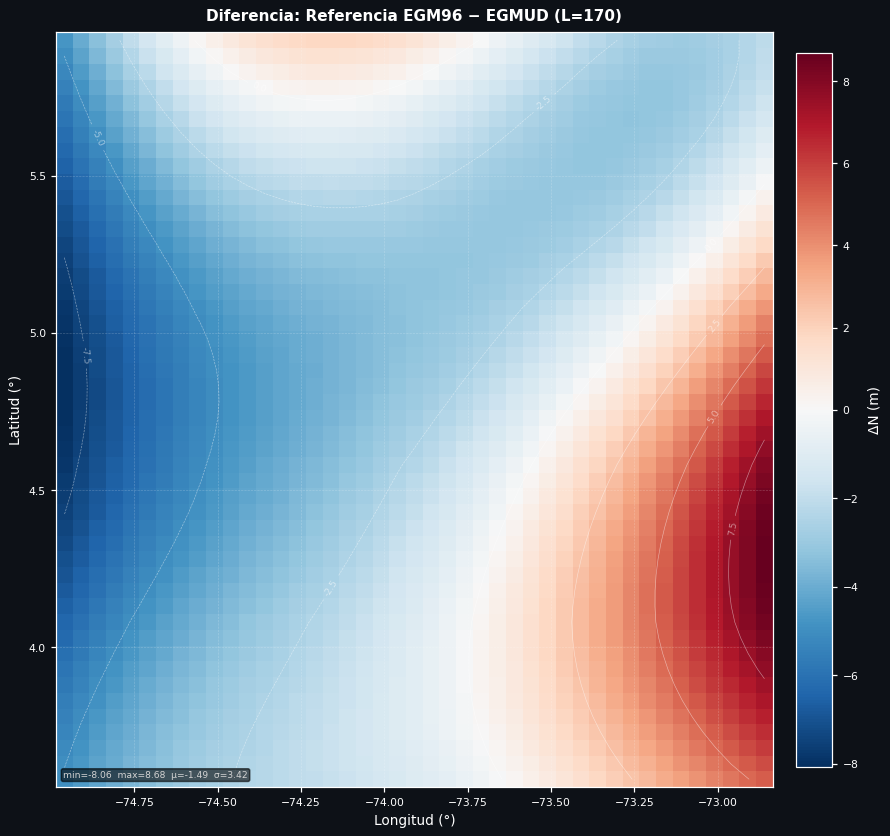
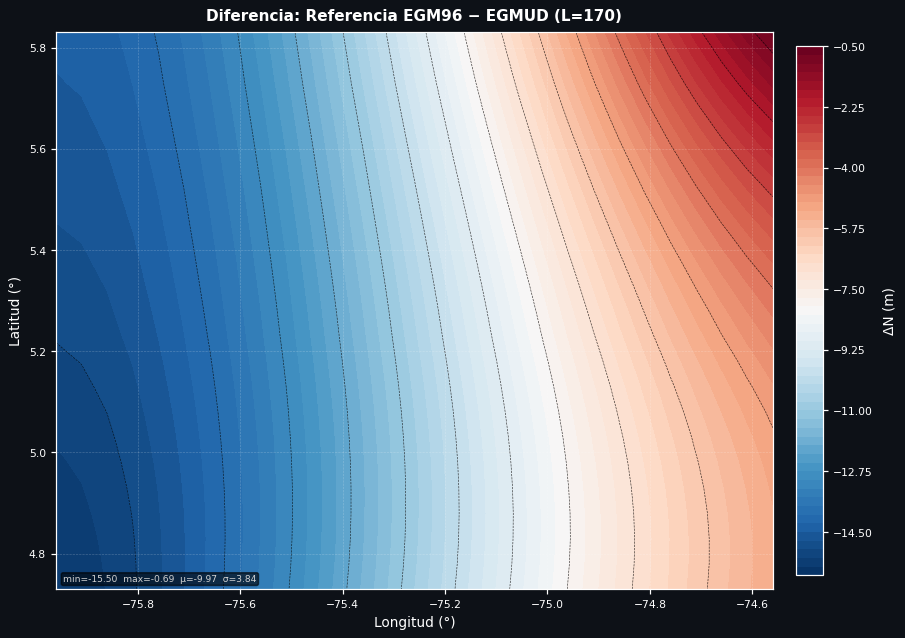
Final

diff --git a/geoid_app/backend.py b/geoid_app/backend.py
@@ -515,12 +515,12 @@ def generar_mapa(data: np.ndarray, lats: np.ndarray, lons: np.ndarray,
     # ── Datos ───────────────────────────────────────────────────────────────
     vmin, vmax = np.nanmin(data), np.nanmax(data)
 
+    num_levels = 60
     if divergente and vmin < 0 < vmax:
         norm = TwoSlopeNorm(vmin=vmin, vcenter=0, vmax=vmax)
-        im = ax.pcolormesh(LON_G, LAT_G, data, cmap=colormap, norm=norm, shading='auto')
+        im = ax.contourf(LON_G, LAT_G, data, levels=num_levels, cmap=colormap, norm=norm)
     else:
-        im = ax.pcolormesh(LON_G, LAT_G, data, cmap=colormap,
-                           vmin=vmin, vmax=vmax, shading='auto')
+        im = ax.contourf(LON_G, LAT_G, data, levels=num_levels, cmap=colormap)
 
     # SIN set_aspect() — el figsize ya garantiza la proporción correcta
 
@@ -536,9 +536,8 @@ def generar_mapa(data: np.ndarray, lats: np.ndarray, lons: np.ndarray,
 
     # ── Contornos ────────────────────────────────────────────────────────────
     try:
-        contour = ax.contour(LON_G, LAT_G, data,
-                             levels=6, colors='white', linewidths=0.4, alpha=0.5)
-        ax.clabel(contour, inline=True, fontsize=6, fmt='%.1f', colors='white')
+        ax.contour(LON_G, LAT_G, data,
+                   levels=15, colors='black', linewidths=0.4, alpha=0.8)
     except Exception:
         pass
 
@@ -684,7 +683,7 @@ def compute_egmud():
         lat_max = float(data.get('lat_max', 15.0))
         lon_min = float(data.get('lon_min', -80.0))
         lon_max = float(data.get('lon_max', -65.0))
-        resolucion = float(data.get('resolucion', 0.5))
+        resolucion = float(data.get('resolucion', 0.01))
         L_max = int(data.get('L_max', 170))
         
         file_gfc = request.files.get('file_gfc')
@@ -696,8 +695,8 @@ def compute_egmud():
         
         if lat_max <= lat_min or lon_max <= lon_min:
             return jsonify({"error": "Límites geográficos inválidos"}), 400
-        if resolucion < 0.05 or resolucion > 5.0:
-            return jsonify({"error": "Resolución debe estar entre 0.05° y 5.0°"}), 400
+        if resolucion < 0.00001 or resolucion > 5.0:
+            return jsonify({"error": "Resolución debe estar entre 0.00001° y 5.0°"}), 400
         if L_max < 2 or L_max > 360:
             return jsonify({"error": "L_max debe estar entre 2 y 360"}), 400
 
@@ -819,6 +818,12 @@ def compute_hybrid():
         N_ref = np.load(DATA_DIR / "N_ref_last.npy")
         lats = np.load(DATA_DIR / "lats_last.npy")
         lons = np.load(DATA_DIR / "lons_last.npy")
+
+        # Validación de consistencia para evitar errores de Scipy
+        if N_egmud.shape != N_ref.shape or len(lats) != N_egmud.shape[0]:
+            return jsonify({
+                "error": "Inconsistencia de datos detectada. Por favor, vuelva a realizar el paso ② (Comparación) antes de este paso."
+            }), 400
         
         file_corr = request.files.get('file_corr')
         if not file_corr:
